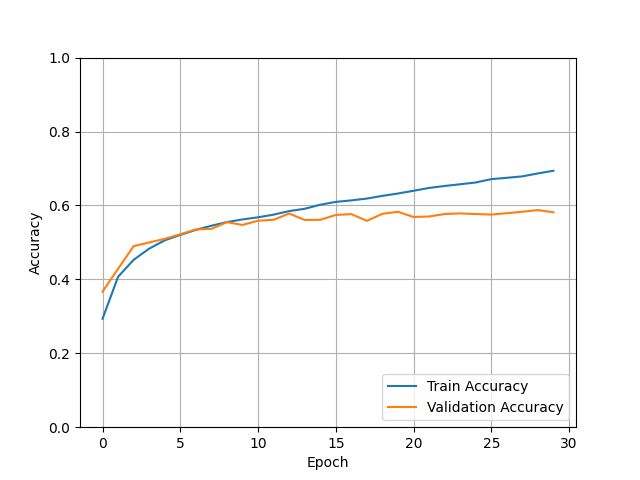
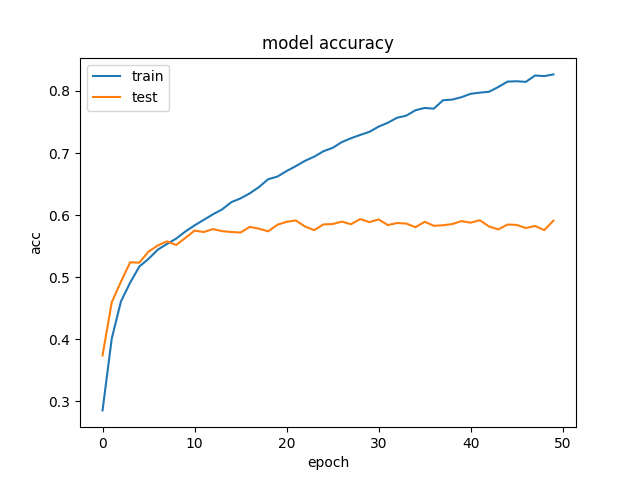
up

diff --git a/videoDetection/testingEvaluation.py b/videoDetection/testingEvaluation.py
@@ -19,7 +19,7 @@ df=pd.read_csv('dataset.csv')
 
 print(df.info())
 
-X_train,train_y,X_test,test_y, X_priv, priv_y=[],[],[],[],[],[]
+X_train,train_y,X_test,test_y=[],[],[],[]
 
 for index, row in df.iterrows():
     val=row['pixels'].split(" ")
@@ -30,9 +30,6 @@ for index, row in df.iterrows():
         elif 'PublicTest' in row['Usage']:
            X_test.append(np.array(val,'float32'))
            test_y.append(row['emotion'])
-        elif 'PrivateTest' in row['Usage']:
-           X_priv.append(np.array(val,'float32'))
-           priv_y.append(row['emotion'])
     except:
         print(f"error occured at index :{index} and row:{row}")
 
@@ -40,7 +37,7 @@ for index, row in df.iterrows():
 num_features = 64
 num_labels = 7
 batch_size = 128
-epochs = 15
+epochs = 50
 width, height = 48, 48
 
 
@@ -48,17 +45,14 @@ X_train = np.array(X_train,'float32')
 train_y = np.array(train_y,'float32')
 X_test = np.array(X_test,'float32')
 test_y = np.array(test_y,'float32')
-X_priv = np.array(X_priv,'float32')
-priv_y = np.array(priv_y,'float32')
 
 train_y=np_utils.to_categorical(train_y, num_classes=num_labels)
 test_y=np_utils.to_categorical(test_y, num_classes=num_labels)
-priv_y=np_utils.to_categorical(priv_y, num_classes=num_labels)
 
-#normalizing data between 0 and 1
+#cannot produce
+#normalizing data between oand 1
 X_train -= np.mean(X_train, axis=0)
 X_train /= np.std(X_train, axis=0)
-X_priv /= np.std(X_train, axis=0)
 
 X_test -= np.mean(X_test, axis=0)
 X_test /= np.std(X_test, axis=0)
@@ -136,22 +130,20 @@ plt.xlabel('epoch')
 plt.legend(['train', 'test'], loc='upper left')
 plt.savefig('accuracy.png')
 plt.show()
+predictions = model.predict_classes(X_test)
+new_y_test = y_test.astype(int)
+matrix = confusion_matrix(new_y_test, predictions)
 
-#validation loss and accuracy
+print(classification_report(new_y_test, predictions))
+print(matrix)
+
+print("Start training")
 search_start = time.time()
 loss, accuracy = model.evaluate(X_test, test_y)
 search_end = time.time()
 elapsed_time = search_end - search_start
 print("Elapsed time (s): "+str(elapsed_time))
-print("Validation loss: " + str(loss) + "Validation accuracy: " + str(accuracy))
-
-#test loss and accuracy
-search_start = time.time()
-loss, accuracy = model.evaluate(X_priv, priv_y)
-search_end = time.time()
-elapsed_time = search_end - search_start
-print("Elapsed time (s): "+str(elapsed_time))
-print("Validation loss: " + str(loss) + "Validation accuracy: " + str(accuracy))
+print("loss: " + str(loss) + " accuracy: " + str(accuracy))
 
 #Saving the  model to  use it later on
 mod_json = model.to_json()
